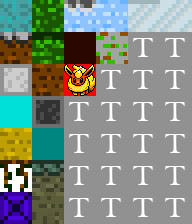
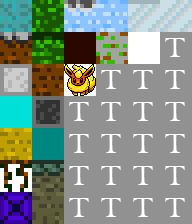
Changed if-conditions to switch-statement.

Changed region(s): [[0.6562, 0.125, 0.8438, 0.3125], [0.3125, 0.2812, 0.5, 0.4375], [0.4062, 0.375, 0.5, 0.4375]]

diff --git a/js/Map.js b/js/Map.js
@@ -10,13 +10,13 @@
     var bufferImage = document.getElementById('render');
     var ctxBuffer = bufferImage.getContext('2d');
 
-    var yPosition = 0;
-    var xPosition = 0;
+    var yPosition = 4;
+    var xPosition = 2;
 
     var map = [
         [test10.getId(), test10.getId(), test10.getId(), test10.getId(), test10.getId(), test10.getId(), test10.getId(), test10.getId(), test10.getId(), test10.getId(), test10.getId(), test10.getId(), test10.getId(), test10.getId(), test10.getId(), test10.getId(), test10.getId(), test10.getId(), test10.getId(), test10.getId(), test10.getId(), test10.getId(), test10.getId(), test10.getId(), test10.getId(), test10.getId(), test10.getId(), test10.getId()],
         [test10.getId(), test10.getId(), test10.getId(), test10.getId(), test10.getId(), test10.getId(), test10.getId(), test10.getId(), test10.getId(), test10.getId(), test10.getId(), test10.getId(), test10.getId(), test10.getId(), test10.getId(), test10.getId(), test10.getId(), test10.getId(), test10.getId(), test10.getId(), test10.getId(), test10.getId(), test10.getId(), test10.getId(), test10.getId(), test10.getId(), test10.getId(), test10.getId()],
-        [flareon.getId(), test10.getId(), test10.getId(), test10.getId(), test10.getId(), test10.getId(), test10.getId(), test10.getId(), test10.getId(), test10.getId(), test10.getId(), test10.getId(), test10.getId(), test10.getId(), test10.getId(), test10.getId(), test10.getId(), test10.getId(), test10.getId(), test10.getId(), test10.getId(), test10.getId(), test10.getId(), test10.getId(), test10.getId(), test10.getId(), test10.getId(), test10.getId()],
+        [test10.getId(), test10.getId(), test10.getId(), test10.getId(), flareon.getId(), test10.getId(), test10.getId(), test10.getId(), test10.getId(), test10.getId(), test10.getId(), test10.getId(), test10.getId(), test10.getId(), test10.getId(), test10.getId(), test10.getId(), test10.getId(), test10.getId(), test10.getId(), test10.getId(), test10.getId(), test10.getId(), test10.getId(), test10.getId(), test10.getId(), test10.getId(), test10.getId()],
         [grass.getId(),grass.getId(),grass.getId(),grass.getId(),grass.getId(),grass.getId(),grass.getId(),grass.getId(),grass.getId(),grass.getId(),grass.getId(),grass.getId(),grass.getId(),grass.getId(),grass.getId(),grass.getId(),grass.getId(),grass.getId(),grass.getId(),grass.getId(),grass.getId(),grass.getId(),grass.getId(),grass.getId(),grass.getId(),grass.getId(),grass.getId(),grass.getId()]
     ];
 
@@ -97,55 +97,60 @@
     //    console.log(yPosition);
     //}
 
-    function keyboard() {
-        document.addEventListener('keydown', function (e) {
-            //Press 'a'
-            if (e.keyCode == 65) {
-                map[2+xPosition][0
-                    ] = 14;
-                drawMap(map, 0);
-                xPosition--;
-            }
+    //TODO: Detect collision between the rocks.
+    function detectCollision(row, col) {
+        console.log("TEST ", map[row][col]);
 
-            //TODO: Able to move down
-            //Press 's'
-            if (e.keyCode == 83) {
-                map[2+xPosition][0] = 14;
-                drawMap(map, 0);
-                xPosition++;
-            }
+        //IF WALKABLE
+            //BREAK THE ROCK
+            //ADD POINTS
+            //REPLACE AIR BLOCK
 
-            //Press 'w'
-            if (e.keyCode == 87) {
-                map[2][yPosition] = 14;
-                drawMap(map, 0);
-                yPosition--;
-
-            }
-
-            //Press 'd'
-            if (e.keyCode == 68) {
-                map[2][yPosition] = 14;
-                drawMap(map, 0);
-                yPosition++;
-            }
-        });
+        //ELSE
     }
 
-    //FPS
-    window.requestAnimFrame = (function () {
-        return window.requestAnimationFrame ||
-            window.webkitRequestAnimationFrame ||
-            window.mozRequestAnimationFrame ||
-            function (callback) {
-                window.setTimeout(callback, 1000 / 60);
-            };
-    })();
+    function clearPlayerSquare(){
+        var playerPos = flareon.getPosition();
+        map[playerPos.row][playerPos.col] = test10.getId();
+        drawMap(map,null);
+    }
 
-    //Animation Handler
-    (function animloop() {
-        requestAnimFrame(animloop);
-    })();
+    function move(){
+        var playerPos = flareon.getPosition();
+
+        detectCollision(playerPos.row, playerPos.col);
+
+        map[playerPos.row][playerPos.col] = flareon.getId();
+        drawMap(map,null);
+    }
+
+    function keyboard() {
+        document.addEventListener('keydown', function (e) {
+
+            //TODO: Convert to switch
+            var keyValue = e.keyCode;
+
+            clearPlayerSquare();
+
+            switch(keyValue) {
+                case 65:
+                    flareon.left();
+                    break;
+                case 83:
+                    flareon.down();
+                    break;
+                case 87:
+                    flareon.up();
+                    break;
+                case 68:
+                    flareon.right();
+                    break;
+                default:
+                    console.log("Hey! Wrong keyboard");
+            }
+            move();
+        });
+    }
 
     keyboard();
     for (var i = 0; i < 20; i++) {

diff --git a/js/Player.js b/js/Player.js
@@ -1,56 +1,42 @@
 /**
  * Created by Akira on 9/13/2016.
  */
-var Player = function(name, id, posX, posY) {
+var Player = function (name, id, posX, posY) {
     this.name = name;
     this.id = id;
-    this.posX = 0;
-    this.posY = 0;
-
-    var position = {
-        "row":0,
-        "col":4
+    this.position = {
+        "row": 2,
+        "col": 4
     };
-
 };
 
-Player.prototype.getId = function() {
+Player.prototype.getId = function () {
     return this.id;
 };
 
-Player.prototype.getX = function() {
-  return this.posX;
-};
-
-Player.prototype.setX = function (posX) {
-    this.posX = posX;
-};
-
-Player.prototype.getY = function() {
-    return this.posY;
-};
-
-Player.prototype.setY = function() {
-    this.posY = posY;
-};
-
-Player.prototype.down = function(){
-    position.row++;
-    // calculate x, y of postion.row / position.col;
+Player.prototype.down = function () {
+    this.position.row++;
+    console.log("Player x: " + this.position.col + " y: " + this.position.row);
 
 };
 
 Player.prototype.up = function () {
-
+    this.position.row--;
+    console.log("Player x: " + this.position.col + " y: " + this.position.row);
 };
 
 Player.prototype.left = function () {
-
+    this.position.col--;
+    console.log(" Player x: " + this.position.col + " y: " + this.position.row);
 };
 
 Player.prototype.right = function () {
-
+    this.position.col++;
+    console.log(" Player x: " + this.position.col + " y: " + this.position.row);
 };
 
+Player.prototype.getPosition = function(){
+  return this.position;
+};
 
 var flareon = new Player("Flareon", 14);

diff --git a/index.html b/index.html
@@ -1,16 +1,18 @@
 <!DOCTYPE html>
 <html lang="en">
-<head>
-    <meta charset="UTF-8">
-    <title></title>
-    <link rel="stylesheet" type="text/css" href="css/style.css">
-    <script type="text/javascript" src="lib/jquery-3.1.0.min.js"></script>
-    <script type="text/javascript" src="js/Rock.js"></script>
-    <script type="text/javascript" src="js/Player.js"></script>
-    <script type="text/javascript" src="js/Map.js"></script>
-</head>
-<body>
-        <canvas id="main" width="1024" height="640"></canvas>
-        <canvas id="render" width="1024" height="640"></canvas>
-</body>
+    <head>
+        <meta charset="UTF-8">
+        <title>Just Mine It</title>
+        <link rel="stylesheet" type="text/css" href="css/style.css">
+        <script type="text/javascript" src="lib/jquery-3.1.0.min.js"></script>
+        <script type="text/javascript" src="js/Map.js"></script>
+        <script type="text/javascript" src="js/Rock.js"></script>
+        <script type="text/javascript" src="js/Player.js"></script>
+        <script type="text/javascript" src="js/Main.js"></script>
+    </head>
+
+    <body>
+            <canvas id="main" width="1024" height="640"></canvas>
+            <canvas id="render" width="1024" height="640"></canvas>
+    </body>
 </html>

diff --git a/js/Main.js b/js/Main.js
@@ -1,0 +1,39 @@
+/**
+ * Created by Akira on 9/14/2016.
+ */
+
+//function keyboard() {
+//    document.addEventListener('keydown', function (e) {
+//        //Press 'a'
+//        if (e.keyCode == 65) {
+//            flareon.left();
+//            map[xPosition][0] = 14;
+//            drawMap(map, 0);
+//            xPosition--;
+//        }
+//        //Press 's'
+//        if (e.keyCode == 83) {
+//            flareon.down();
+//            map[xPosition][0] = 14;
+//            drawMap(map, 0);
+//            xPosition++;
+//        }
+//
+//        //Press 'w'
+//        if (e.keyCode == 87) {
+//            flareon.up();
+//            map[2][yPosition] = 14;
+//            drawMap(map, 0);
+//            yPosition--;
+//
+//        }
+//
+//        //Press 'd'
+//        if (e.keyCode == 68) {
+//            flareon.right();
+//            map[2][yPosition] = 14;
+//            drawMap(map, 0);
+//            yPosition++;
+//        }
+//    });
+//}
